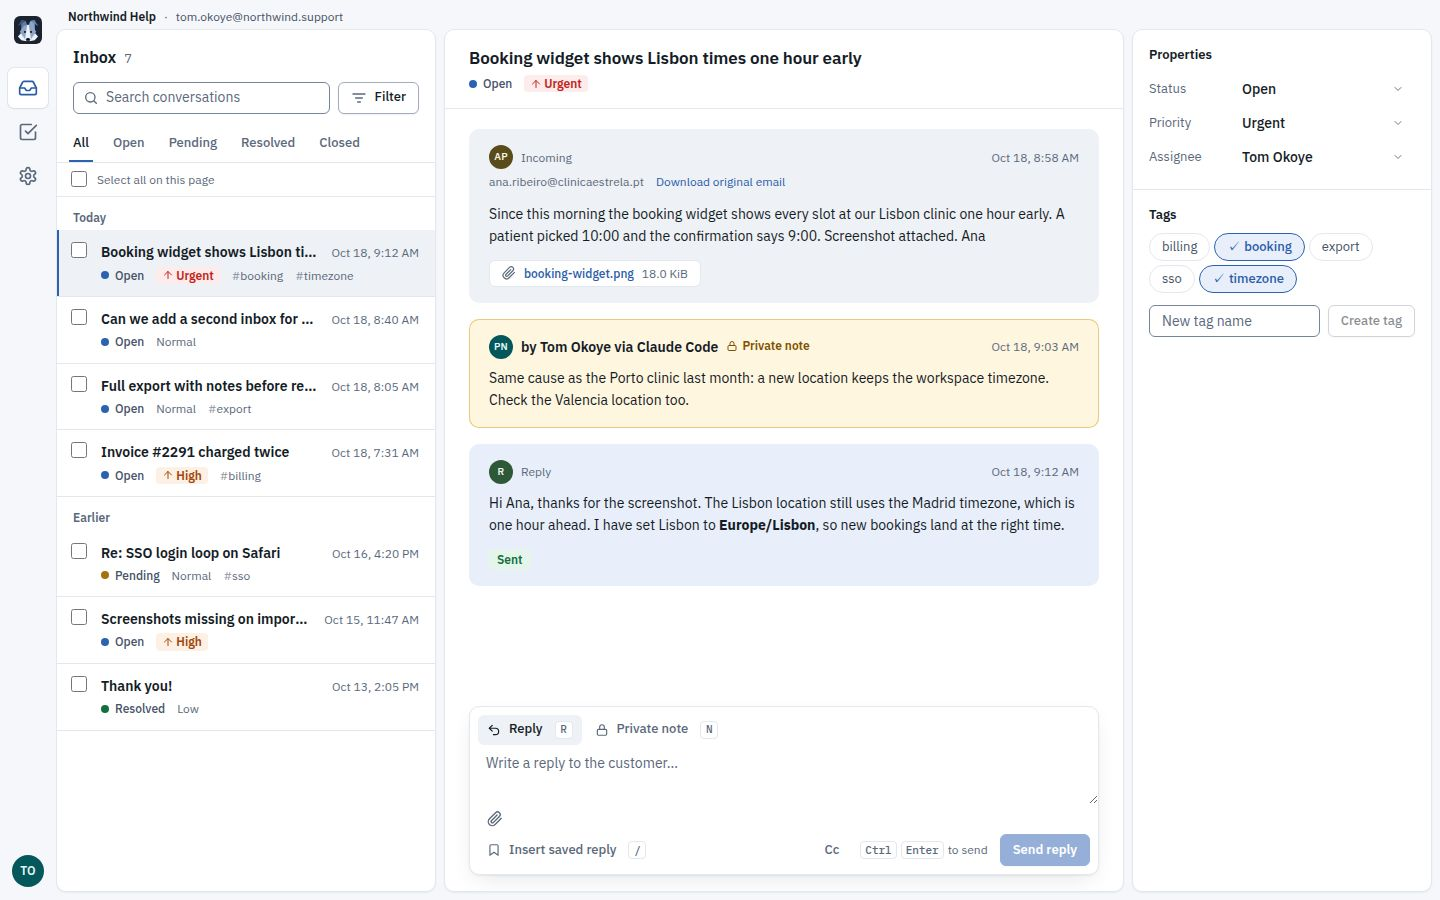
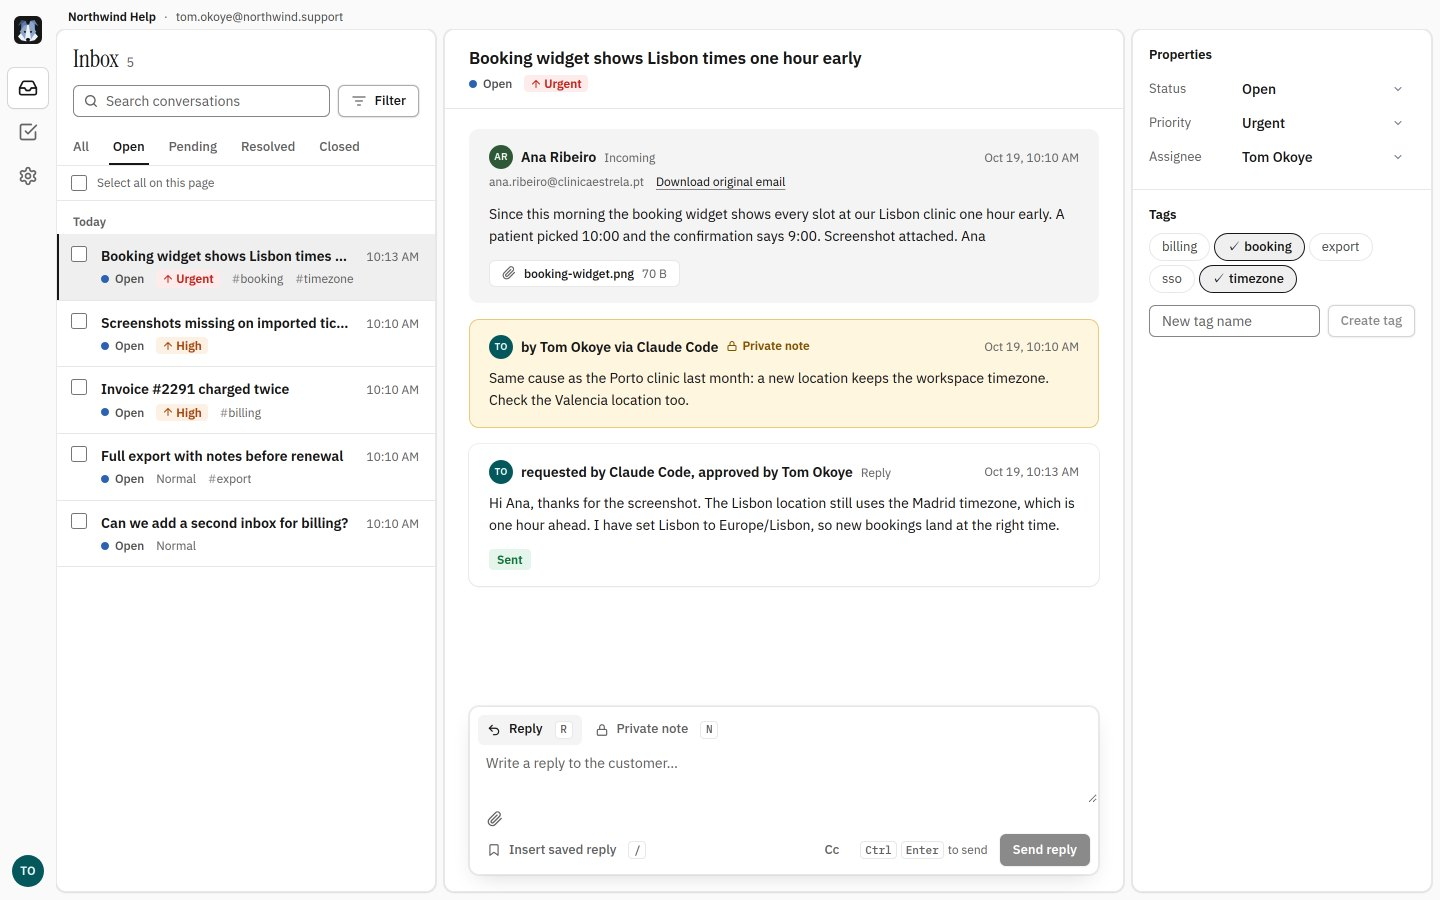
Ink app on the site: tokens from the app, new product screenshot
public/tokens.css is again an exact copy of the app's ink-and-paper tokens, so the site's own grey overrides are gone (only --ring, --price and --panel stay). The product screenshot is retaken from the new app with demo data: a note by Tom Okoye via Claude Code and the reply Claude Code drafted and Tom approved, marked Sent; a 2x copy serves the hero through srcset. README Design points to the app's brand guideline.

diff --git a/public/tokens.css b/public/tokens.css
@@ -1,4 +1,4 @@
-/* Colliedesk brand tokens: Blue Merle. Copied from the app (colliedesk/colliedesk web/src/styles/tokens.css);
+/* Colliedesk brand tokens: ink and paper. Copied from the app (colliedesk/colliedesk web/src/styles/tokens.css);
    change them there first. Light is the default theme; dark is opt-in through data-theme="dark" on <html>
    (see static/theme.js). Contrast for every pair is checked in the app repo and listed in docs/internals/design.md. */
 :root {
@@ -24,6 +24,7 @@
 
   /* Type */
   --font-sans: 'IBM Plex Sans', ui-sans-serif, system-ui, -apple-system, 'Segoe UI', sans-serif;
+  --font-display: 'Instrument Serif', Georgia, serif;   /* page titles and the sign-in promise only */
   --font-mono: 'IBM Plex Mono', ui-monospace, 'SFMono-Regular', Menlo, Consolas, monospace;
   --fs-ui: 14px;                     /* app body */
   --fs-label: 12px;                  /* meta, labels, kbd */
@@ -46,34 +47,34 @@
 :root, :root[data-theme="light"] {
   color-scheme: light;
   /* Surfaces: 0 = app background, rail, side panes; 1 = list, thread, cards; 2 = hover; 3 = selected */
-  --surface-0: #f5f7fa;
+  --surface-0: #fafafa;
   --surface-1: #ffffff;
-  --surface-2: #eef1f5;
-  --surface-3: #e4e9f0;
-  --surface-inverse: #1b2330;        /* tooltips */
+  --surface-2: #f4f4f4;
+  --surface-3: #ebebeb;
+  --surface-inverse: #171717;        /* tooltips */
 
   /* Lines */
-  --line: #e3e7ee;                   /* hairline dividers only */
-  --line-strong: #77839a;            /* inputs and controls whose border is the only cue (>= 3:1) */
+  --line: #e8e8e8;                   /* hairline dividers only */
+  --line-strong: #858585;            /* inputs and controls whose border is the only cue (>= 3:1) */
 
   /* Text */
-  --text-1: #151c27;
-  --text-2: #465267;
-  --text-3: #5b687c;                 /* meta, timestamps, labels */
+  --text-1: #171717;
+  --text-2: #4d4d4d;
+  --text-3: #636363;                 /* meta, timestamps, labels */
   --text-inverse: #ffffff;
 
-  /* Brand: merle blue, darkened so white text and links reach 4.5:1 */
-  --accent: #2d62b3;
-  --accent-hover: #234f94;
+  /* Brand: ink. The primary action, links and selection are ink and neutral grey; colour is kept for status, focus and notes. */
+  --accent: #171717;
+  --accent-hover: #3d3d3d;
   --on-accent: #ffffff;
-  --accent-text: #2a5ca9;
-  --accent-soft: #e8effa;
-  --accent-strong: #2c5a9e;          /* graphics only */
-  --logo-tile: #1b2330;              /* the mark always sits on a dark tile */
-  --line-control: #cdd3dc;           /* secondary button outline; the label is the cue */
-  --brand-panel: #141b26;            /* sign-in brand side */
-  --on-brand-panel: #ffffff;
-  --on-brand-panel-2: #b4bfcf;
+  --accent-text: #171717;
+  --accent-soft: #efefef;
+  --accent-strong: #171717;          /* graphics only */
+  --logo-tile: #171717;              /* the mark always sits on a dark tile */
+  --line-control: #adadad;           /* secondary button outline, 2.3:1 on white so a button reads as a button */
+  --brand-panel: #0a0a0a;            /* sign-in brand side */
+  --on-brand-panel: #fafafa;
+  --on-brand-panel-2: #a3a3a3;
 
   /* Focus and notes: amber (never used for status) */
   --focus: #b86e00;
@@ -89,7 +90,7 @@
   --warn-soft: #fdf0e5;
   --ok: #11703d;
   --ok-soft: #e6f5ec;
-  --open: var(--accent);
+  --open: #2d62b3;                   /* status colour, not the brand */
   --pending: #a3730f;
 
   /* SLA */
@@ -98,42 +99,42 @@
   --sla-ok: var(--text-3);
   --sla-track: #f5d5d2;
 
-  --shadow-1: 0 1px 2px rgb(16 24 40 / 0.06);
-  --shadow-2: 0 1px 2px rgb(16 24 40 / 0.06), 0 8px 24px -8px rgb(16 24 40 / 0.14);
-  --shadow-3: 0 2px 4px rgb(16 24 40 / 0.06), 0 24px 56px -12px rgb(16 24 40 / 0.22);
+  --shadow-1: 0 0 0 1px rgb(0 0 0 / 0.06), 0 1px 2px rgb(0 0 0 / 0.06);   /* a 1px ring, not a border */
+  --shadow-2: 0 0 0 1px rgb(0 0 0 / 0.06), 0 8px 24px -8px rgb(0 0 0 / 0.16);
+  --shadow-3: 0 0 0 1px rgb(0 0 0 / 0.06), 0 24px 56px -12px rgb(0 0 0 / 0.24);
 }
 
 :root[data-theme="dark"] {
   color-scheme: dark;
   /* Surfaces: 0 = page, 1 = panel/list, 2 = raised/hover, 3 = selected/active */
-  --surface-0: #0b0f15;
-  --surface-1: #111721;
-  --surface-2: #18202c;
-  --surface-3: #212c3d;
-  --surface-inverse: #e8edf4;        /* tooltips */
+  --surface-0: #0a0a0a;
+  --surface-1: #141414;
+  --surface-2: #1c1c1c;
+  --surface-3: #262626;
+  --surface-inverse: #fafafa;        /* tooltips */
 
   /* Lines */
-  --line: #232c3b;                   /* decorative dividers only */
-  --line-strong: #6b7a93;            /* inputs, chips, secondary buttons: borders that show state (>= 3:1) */
+  --line: #262626;                   /* decorative dividers only */
+  --line-strong: #787878;            /* inputs, chips, secondary buttons: borders that show state (>= 3:1) */
 
   /* Text */
-  --text-1: #e8edf4;                 /* primary */
-  --text-2: #b4bfcf;                 /* secondary, body on the site */
-  --text-3: #8e9bb0;                 /* meta, timestamps, labels */
-  --text-inverse: #0b0f15;           /* on --surface-inverse */
+  --text-1: #fafafa;                 /* primary */
+  --text-2: #d4d4d4;                 /* secondary, body on the site */
+  --text-3: #a3a3a3;                 /* meta, timestamps, labels */
+  --text-inverse: #0a0a0a;           /* on --surface-inverse */
 
-  /* Brand: merle blue */
-  --accent: #7aa5e6;                 /* primary button fill, active indicators */
-  --accent-hover: #96b9ee;
-  --on-accent: #0b0f15;              /* text/icon on --accent */
-  --accent-text: #8fb3ea;            /* links and brand-coloured text on any surface */
-  --accent-soft: #1a2940;            /* selected row, AI hint background */
-  --accent-strong: #2c5a9e;          /* graphics only (mark, bars); never text on dark */
-  --logo-tile: #18202c;
-  --line-control: #2e3a4d;
-  --brand-panel: #111721;
-  --on-brand-panel: #e8edf4;
-  --on-brand-panel-2: #b4bfcf;
+  /* Brand: ink, inverted */
+  --accent: #fafafa;                 /* primary button fill, active indicators */
+  --accent-hover: #e0e0e0;
+  --on-accent: #0a0a0a;              /* text/icon on --accent */
+  --accent-text: #fafafa;            /* links and brand-coloured text on any surface */
+  --accent-soft: #222222;            /* selected row, AI hint background */
+  --accent-strong: #e5e5e5;          /* graphics only (mark, bars); never text on dark */
+  --logo-tile: #1c1c1c;
+  --line-control: #4d4d4d;           /* 2.3:1 on the dark panel */
+  --brand-panel: #141414;
+  --on-brand-panel: #fafafa;
+  --on-brand-panel-2: #a3a3a3;
 
   /* Focus and notes: amber (never used for status) */
   --focus: #f0b44c;
@@ -149,7 +150,7 @@
   --warn-soft: #3a2615;
   --ok: #6fcf97;                     /* resolved, reconcile match */
   --ok-soft: #13291e;
-  --open: var(--accent);
+  --open: #79a8ff;
   --pending: #c9a35a;
 
   /* SLA */

diff --git a/public/styles.css b/public/styles.css
@@ -1,17 +1,15 @@
 /* Colliedesk site: light by default (dark via data-theme, see theme.js). Tokens come from tokens.css,
    fonts from fonts.css (both self-hosted). Sentence case everywhere; mono only for code.
-   The page is neutral grey and ink: the primary button and links are ink, and Blue Merle stays for focus, the
-   hero's price and inside the product pictures (README, Design; scripts/check.mjs counts it). Only the greys below differ from the app's tokens. Cards sit on a 1px shadow ring, not a border. */
+   Ink and paper, the same brand as the app (its docs/internals/design.md): neutral greys, ink buttons and
+   links, colour only for the price (--price), status and inside the product pictures. The greys and ink
+   come from the app's tokens; only --ring, --price and --panel are the site's own. Cards sit on a 1px
+   shadow ring, not a border. scripts/check.mjs caps how often the accent token is used. */
 :root, :root[data-theme="light"] {
-  --surface-0: #fafafa; --surface-2: #f5f5f5; --surface-3: #e5e5e5; --line: #e5e5e5;
-  --text-1: #171717; --text-2: #525252; --text-3: #666666;
   --ring: 0 0 0 1px rgb(0 0 0 / .06), 0 1px 2px -1px rgb(0 0 0 / .06), 0 2px 4px rgb(0 0 0 / .04);
   --price: #c2410c;                  /* the price only; 5.2:1 on white */
   --panel: #f4f3f1;                  /* behind product pictures */
 }
 :root[data-theme="dark"] {
-  --surface-0: #0a0a0a; --surface-1: #171717; --surface-2: #262626; --surface-3: #303030; --line: #262626;
-  --text-1: #fafafa; --text-2: #d4d4d4; --text-3: #a3a3a3;
   --ring: 0 0 0 1px rgb(255 255 255 / .08);
   --price: #fb8a4a;                  /* 8.3:1 on #0a0a0a */
   --panel: #171717;

diff --git a/src/components/home/ProductCrop.tsx b/src/components/home/ProductCrop.tsx
@@ -1,12 +1,12 @@
-// A window onto the real product screenshot (public/product-inbox.jpg, 1440 × 900). Percentage size
+// A window onto the real product screenshot (public/product-inbox.jpg, 1440 × 900; a 2x copy serves the hero). Percentage size
 // and position keep the same region at any width, so one image serves every crop.
 const W = 1440;
 const H = 900;
 
 export interface Region { x: number; y: number; w: number; h: number }
 
-// Regions of product-inbox.jpg, measured on the image.
-export const INBOX_LIST: Region = { x: 58, y: 30, w: 377, h: 700 };
+// Regions of product-inbox.jpg in CSS pixels, measured on the image (retaken 19/10/2026 from the ink app).
+export const INBOX_LIST: Region = { x: 58, y: 30, w: 377, h: 540 };
 export const THREAD: Region = { x: 445, y: 30, w: 677, h: 570 };
 export const INCOMING: Region = { x: 445, y: 30, w: 677, h: 280 };
 

diff --git a/src/components/home/AgentSection.tsx b/src/components/home/AgentSection.tsx
@@ -19,7 +19,7 @@ export function AgentSection() {
             <pre className="code-card"><code><span className="t-prompt">$</span>{` claude mcp add --transport http colliedesk \\\n    ${MCP_URL} \\\n    --header "Authorization: Bearer $COLLIEDESK_TOKEN"`}</code></pre>
           </div>
           <div className="panel agent-panel">
-            <ProductCrop region={THREAD} maxWidth={600} label="A Colliedesk conversation: the customer's email, a private note by Tom Okoye via Claude Code, and the team's sent reply." />
+            <ProductCrop region={THREAD} maxWidth={600} label="A Colliedesk conversation: the customer's email, a private note by Tom Okoye via Claude Code, and the reply Claude Code drafted and Tom approved, marked Sent." />
             <RequestTile />
           </div>
         </div>

diff --git a/README.md b/README.md
@@ -55,20 +55,24 @@ References: t3.codes (honest "what are you selling me", fork-it, terminal snippe
 ("X alternative" positioning, transparent pricing, vs pages), cal.com (pricing answered in the FAQ,
 footer comparison links).
 
-Colour rule (from how mailcheap.ai is built, 19/10/2026): the page is neutral grey and colour belongs to
-the product pictures. The primary button and links are ink; Blue Merle is for focus, the hero's price and inside
-the pictures, never for eyebrows, card borders or section bands; `pnpm check` fails when `styles.css`
-uses `var(--accent…)` more than its budget. One page background, no tinted bands. Only pictures of the product, code and tables get a box: a picture lies on white over a soft grey panel, code and tables on a 1px shadow ring (`--ring`); text sits in plain columns under a hairline. The greys
-are the site's own, at the top of `public/styles.css` (all text pairs at least 4.5:1); the rest comes from the app.
+Brand: **ink and paper**, shared with the app; the brand guideline is in the app repo,
+`docs/internals/design.md` (owner decision 19/10/2026; research on https://design.hclabs.co, owner only).
+`public/tokens.css` is a copy of the app's `web/src/styles/tokens.css` (change it there first; the app
+repo checks contrast for every pair and fails when a grey, a text token or the primary action has a hue).
 
-Brand: Blue Merle, shared with the app. `public/tokens.css` is a copy of the app's
-`web/src/styles/tokens.css` (change it there first; the app repo checks contrast for every pair).
-Light theme: cool grey surfaces (`--surface-0` `#f5f7fa`, cards `#ffffff`), ink text (`--text-1`
-`#151c27`) and merle blue accent `--accent` `#2d62b3`, darkened so white text and links reach 4.5:1.
-Dark theme: near-black surfaces (`--surface-0` `#0b0f15`), light text (`#e8edf4`) and a lighter
-accent `#7aa5e6` with dark text on it. Spacing is a 4 px grid (`--space-*`), radii 4 to 10 px.
-Light is the default; the footer **Dark theme** button sets `data-theme="dark"` and saves it in
-`localStorage` for this site only (`public/theme.js`; the app keeps its own setting). Self-hosted IBM Plex Sans and Mono, Instrument Serif for h1 and h2,
-sentence case everywhere, mono only for code. The hero shows the real light inbox
-(`public/product-inbox.jpg`) with the reconcile report over its corner. Buttons are at least
-44 px tall on touch (`--touch`).
+- Colour: neutral grey surfaces (`--surface-0` `#fafafa`, cards `#ffffff`), ink text and ink buttons and
+  links (`#171717`; dark theme `#0a0a0a` page, `#fafafa` ink). The price has its own colour (`--price`,
+  `#c2410c`, dark `#fb8a4a`); status colours appear only inside product pictures. `pnpm check` fails
+  when `styles.css` uses the accent token more than its budget.
+- Layout (from a full-page teardown of nine helpdesk sites): one page background, no tinted bands; one
+  idea per section with a crop of the real product on a soft panel (`--panel`); three checkable facts
+  under the hero; a dark closing band. Text sits in plain columns under a hairline; code and tables sit
+  on a 1px shadow ring (`--ring`).
+- Type: self-hosted IBM Plex Sans and Mono; Instrument Serif for h1 and h2. Sentence case everywhere,
+  mono only for code.
+- Product pictures: `public/product-inbox.jpg` (and `@2x`) is a screenshot of the app with demo data
+  (Northwind Help). Retake it when the app's look changes; `src/components/home/ProductCrop.tsx` holds
+  the crop regions.
+- Light is the default; the footer **Dark theme** button sets `data-theme="dark"` and saves it in
+  `localStorage` for this site only (`public/theme.js`). Spacing is a 4 px grid (`--space-*`); buttons
+  are at least 44 px tall on touch (`--touch`).
